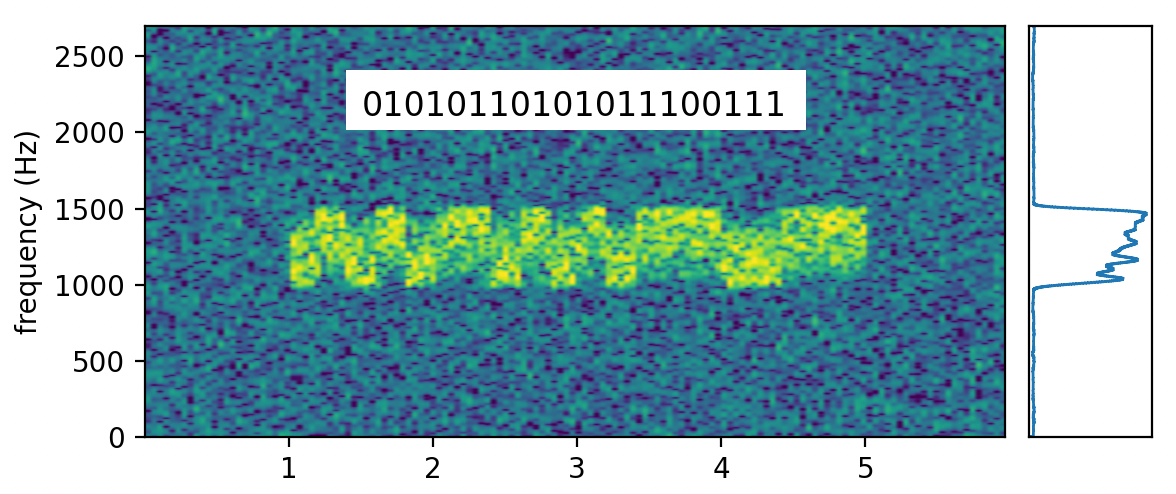
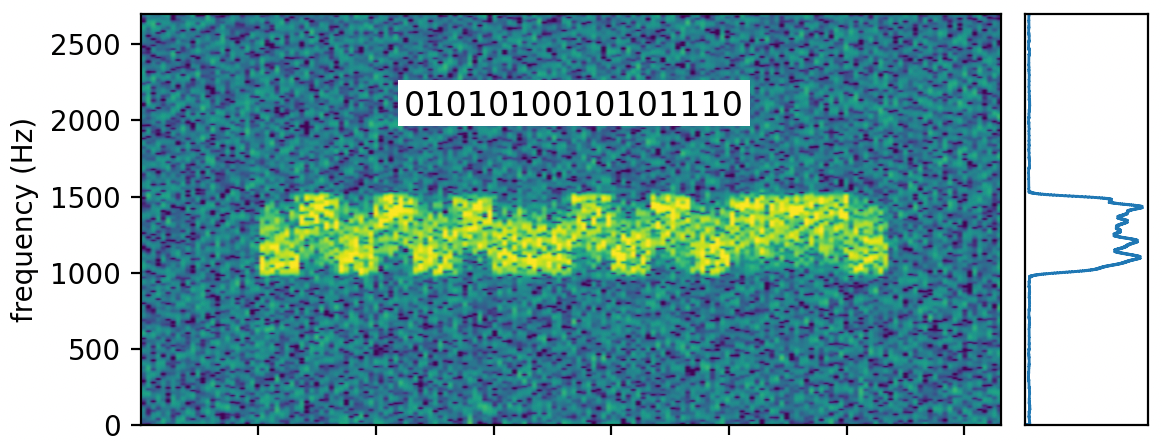
replace waterfall example with one that has balanced 0s and 1s, add a block diagram to the README.md

diff --git a/README.md b/README.md
@@ -5,13 +5,19 @@ demonstrated in this repository for audio channels of 2.5kHz.
 
 ![Waterfall with NCK example](img/nck-spectro-example.png)
 
+Generating and detecting noise of different colors is easy (as it does
+not require the use of Fast Fourier Transform, FFT) and leads to a
+very frugal processing pipeline, as shown below.
+
+![NCK block diagram](img/nck-block-diagram.png)
+
 ## 1) Introduction
 
-NCK uses two distinct noise colors to encode bits, while the
-traditional methods like FSK and PSK use a signal's frequency or phase
-to this end. Specially crafted noise hues, called "reddish" and
-"blueish", were designed such that the signal's averaged power over
-time looks like white noise i.e., has a flat frequency
+NCK uses two distinct noise colors to encode bits while the
+traditional methods like ASK, FSK and PSK use a signal's amplitude,
+frequency or phase to this end. Specially crafted noise hues, called
+"reddish" and "blueish", were designed such that the signal's averaged
+power over time looks like white noise i.e., has a flat frequency
 distribution. This makes NCK a quite robust modulation technique as no
 frequency or phase constellation of the signal carries special
 significance - it's all encoded in the noise' hue.
